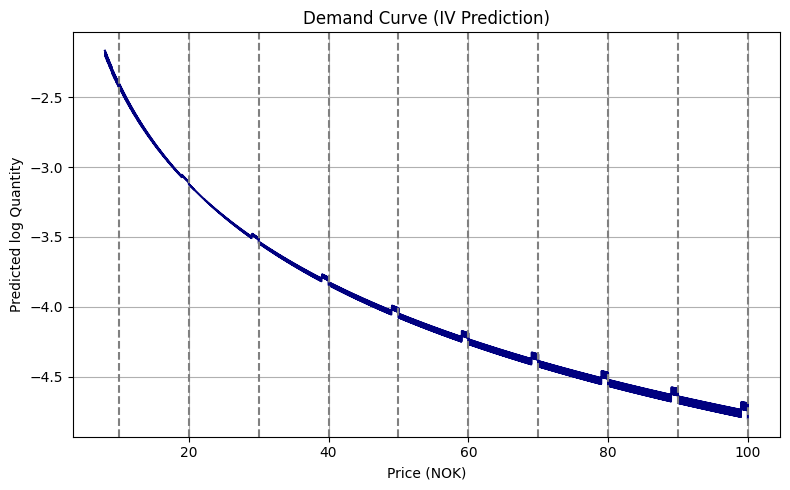
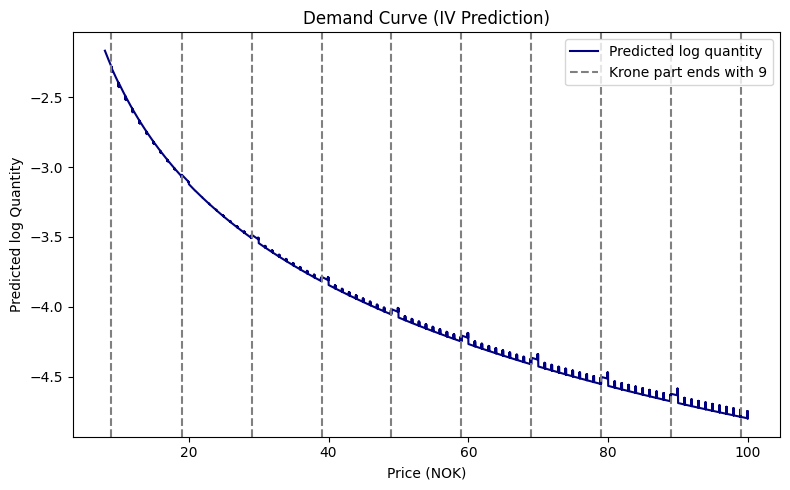
minor changes

diff --git a/code/run_elasticity_reg.py b/code/run_elasticity_reg.py
@@ -97,11 +97,11 @@ stores['id_int'] = stores['id_clean'].astype(float).astype('int64')
 stores_subset = stores.loc[:,['id_int','kommune_id']].drop_duplicates()
 df.store_id = df.store_id.astype('int64')   
 
-del stores, stores_subset
-gc.collect()
-
 df = df.merge(stores_subset[['id_int', 'kommune_id']], left_on='store_id', right_on='id_int', how='left')
 df.loc[df.kommune_id.isna(), 'kommune_id'] = '0301'  # Assign a default value for missing kommune_id
+
+del stores, stores_subset
+gc.collect()
 
 # for each product calculate an average price per week in other stores of the same chain in other municipalities
 df['price_iv'] = df.groupby(['sku_gtin', 'week', 'kjedeid'], as_index=False)['ppu'].transform(lambda x: x.mean())
@@ -176,111 +176,129 @@ model_iv5.summary()
 del model_iv5
 gc.collect()
 
-#%% Make a plot for predicted demand
-price_grid = np.linspace(df["ppu"].min(), df["ppu"].max(), 100)
+#%% Predict demand
+price_grid = np.linspace(0, 100, 10000)
 pred_df = pd.DataFrame({
     "price_nok": price_grid,
     "krone": price_grid.astype(int),
     "ore": ((price_grid - price_grid.astype(int)) * 100).round().astype(int)
 })
 pred_df["log_price_hat"] = np.log(pred_df["price_nok"])
-pred_df["krone_ends_with_nine"] = (pred_df["krone"] % 10 == 9).astype(int)
-pred_df["log_price_krone_hat"] = np.log(pred_df["krone"].replace(0, np.nan)).fillna(0)
-pred_df["ore_ends_with_nine"] = (pred_df["ore"] % 10 == 9).astype(int)
-pred_df["log_price_ore_hat"] = np.log(pred_df["ore"].replace(0, np.nan)).fillna(0)
+pred_df.loc[:, 'krone_ends_with_nine'] = pred_df["price_nok"].apply(krone_ends_with_nine)
+pred_df.loc[:, 'ore_ends_with_nine'] = pred_df["price_nok"].apply(ore_ends_with_nine)
+pred_df["log_price_ore_hat"] = pred_df.log_price_hat * pred_df.ore_ends_with_nine
+pred_df["log_price_krone_hat"] = pred_df.log_price_hat * pred_df.krone_ends_with_nine
 
-pred_df["log_q_hat"] = model_iv5.predict(pred_df)
+#pred_df["log_q_hat"] = model_iv5.predict(pred_df)
+pred_df["log_q_hat"] = pred_df['log_price_hat'] * model_iv5.coef()['log_price_hat'] + pred_df['krone_ends_with_nine'] * model_iv5.coef()['krone_ends_with_nine'] + pred_df['log_price_krone_hat'] * model_iv5.coef()['log_price_krone_hat'] + pred_df['ore_ends_with_nine'] * model_iv5.coef()['ore_ends_with_nine'] + pred_df['log_price_ore_hat'] * model_iv5.coef()['log_price_ore_hat']
 
-# Step 5: Plot
+# pred_df["log_q_hat"] = pred_df['log_price_hat'] * model_iv5.coef()['log_price_hat'] + pred_df['krone_ends_with_nine'] * model_iv5.coef()['krone_ends_with_nine'] + pred_df['ore_ends_with_nine'] * model_iv5.coef()['ore_ends_with_nine'] + pred_df['log_price_ore_hat'] * model_iv5.coef()['log_price_ore_hat']
+
+#%% Plot
+pred_df = pred_df[(pred_df["price_nok"] > 38) & (pred_df["price_nok"] < 42)]
+#pred_df = pred_df[(pred_df["price_nok"] > 8)]
+
 plt.figure(figsize=(8, 5))
 plt.plot(pred_df["price_nok"], pred_df["log_q_hat"], label="Predicted log quantity", color="navy")
+# Add vertical lines at prices ending in .9 (e.g., 8.9, 9.9, ..., 98.9)
+# price_ends_with_point9 = np.arange(19.0, 109, 10.0)
+# for price in price_ends_with_point9:
+#     plt.axvline(x=price, color='gray', linestyle='--')
+
+# Add a single label for the legend
+#plt.axvline(x=8.9, color='gray', linestyle='--', label='Krone part ends with 9')
 plt.xlabel("Price (NOK)")
 plt.ylabel("Predicted log Quantity")
 plt.title("Demand Curve (IV Prediction)")
-plt.grid(True)
+#plt.grid(True)
 plt.tight_layout()
+plt.legend(loc='upper right')
 plt.show()
 
-#%% MODELS for log quantity
-model_q = pf.feols('log_quantity ~ log_price + sw(krone_ends_with_nine, ore_ends_with_nine) | sku_gtin + store_id + week', data=df, vcov = {'CRV1':'store_id'})
-model_q.summary()
-del model_q
-gc.collect()
+#%% MODELS for different chains
+# Step 1: Run regression per chain
+results = []
 
-model_q = pf.feols('log_quantity ~ log_price + sw(krone_ends_with_nine, ore_ends_with_nine) | sku_gtin + store_id + week', data=df[df.format=='discounter'], vcov = {'CRV1':'store_id'})
-model_q.summary()
-del model_q
-gc.collect()
+for chain in df.kjedeid.unique():
+    df_chain = df[df.kjedeid == chain]
+    
+    model = pf.feols(
+        'log_quantity ~ log_price_hat + krone_ends_with_nine + log_price_krone_hat + ore_ends_with_nine + log_price_ore_hat | sku_gtin + store_id + week',
+        data=df_chain,
+        vcov={'CRV1': 'store_id'}
+    )
+    
+    coef_df = model.coef().reset_index()
+    coef_df['Std. Error'] = model.se().values
+    coef_df['kjedeid'] = chain
+    results.append(coef_df)
 
-model_q = pf.feols('log_quantity ~ log_price + sw(krone_ends_with_nine, ore_ends_with_nine) | sku_gtin + store_id + week', data=df[df.format=='convenience'], vcov = {'CRV1':'store_id'})
-model_q.summary()
-del model_q
-gc.collect()
+# Step 2: Combine all results
+all_results = pd.concat(results, ignore_index=True)
 
-model_q = pf.feols('log_quantity ~ log_price + sw(krone_ends_with_nine, ore_ends_with_nine) | sku_gtin + store_id + week', data=df[df.format=='supermarket'], vcov = {'CRV1':'store_id'})
-model_q.summary()
-del model_q
-gc.collect()
+# Step 3: Format with stars and SE on a new line
+def add_stars(estimate, se):
+    t = abs(estimate / se)
+    if t >= 2.576:
+        return '***'
+    elif t >= 1.96:
+        return '**'
+    elif t >= 1.645:
+        return '*'
+    else:
+        return ''
 
-#%% MODELS for log quantity and interaction
-model_q = pf.feols('log_quantity ~ log_price + log_price_krone + krone_ends_with_nine | sku_gtin + store_id + week', data=df, vcov = {'CRV1':'store_id'})
-model_q.summary()
-del model_q
-gc.collect()
+def format_entry(estimate, se):
+    stars = add_stars(estimate, se)
+    return f"{estimate:.3f}{stars}\n({se:.3f})"
 
-model_q = pf.feols('log_quantity ~ log_price + ore_ends_with_nine+ log_price_ore | sku_gtin + store_id + week', data=df, vcov = {'CRV1':'store_id'})
-model_q.summary()
-del model_q
-gc.collect()
+all_results['formatted'] = all_results.apply(
+    lambda row: format_entry(row['Estimate'], row['Std. Error']),
+    axis=1
+)
 
+# Step 4: Clean coefficient names
+all_results['Coefficient'] = all_results['Coefficient'].str.replace('_', ' ')
 
-model_q = pf.feols('log_quantity ~ log_price + krone_ends_with_nine + log_price_krone | sku_gtin + store_id + week', data=df[df.format=='discounter'], vcov = {'CRV1':'store_id'})
-model_q.summary()
-del model_q
-gc.collect()
+# Step 5: Define chain groups
 
-model_q = pf.feols('log_quantity ~ log_price + ore_ends_with_nine+ log_price_ore | sku_gtin + store_id + week', data=df[df.format=='discounter'], vcov = {'CRV1':'store_id'})
-model_q.summary()
-del model_q
-gc.collect()
+# Step 4: Define chain groups
+discounters = ['Extra', 'Prix', 'kiwi', 'Rema']
+supermarkets = ['Mega', 'spar', 'meny', 'Obs']
+convenience = ['joker','Marked','Matkroken','nærbutikken']
+chain_groups = {
+    'Discounters': discounters,
+    'Supermarkets': supermarkets,
+    'Convenience Stores': convenience
+}
 
-model_q = pf.feols('log_quantity ~ log_price + krone_ends_with_nine + log_price_krone | sku_gtin + store_id + week', data=df[df.format=='convenience'], vcov = {'CRV1':'store_id'})
-model_q.summary()
-del model_q
-gc.collect()
+# Step 6: Generate LaTeX tables by group
+for group_name, chains in chain_groups.items():
+    subset = all_results[all_results['kjedeid'].isin(chains)]
+    latex_df = subset.pivot(index='Coefficient', columns='kjedeid', values='formatted').reset_index()
+    latex_df = latex_df.rename(columns={'index': 'Coefficient'})
 
-model_q = pf.feols('log_quantity ~ log_price + ore_ends_with_nine+ log_price_ore | sku_gtin + store_id + week', data=df[df.format=='convenience'], vcov = {'CRV1':'store_id'})
-model_q.summary()
-del model_q
-gc.collect()
+    # Order columns by list
+    ordered_cols = ['Coefficient'] + [c for c in chains if c in latex_df.columns]
+    latex_df = latex_df[ordered_cols]
 
-model_q = pf.feols('log_quantity ~ log_price + krone_ends_with_nine + log_price_krone | sku_gtin + store_id + week', data=df[df.format=='supermarket'], vcov = {'CRV1':'store_id'})
-model_q.summary()
-del model_q
-gc.collect()
+    # Create LaTeX
+    latex_code = latex_df.to_latex(
+        index=False,
+        escape=False,
+        column_format="l" + "c" * (latex_df.shape[1] - 1),
+        caption=f"IV Estimates of Log Quantity on Price and 9-Endings – {group_name}",
+        label=f"tab:iv_{group_name.lower().replace(' ', '_')}"
+    )
 
-model_q = pf.feols('log_quantity ~ log_price + ore_ends_with_nine+ log_price_ore | sku_gtin + store_id + week', data=df[df.format=='supermarket'], vcov = {'CRV1':'store_id'})
-model_q.summary()
-del model_q
-gc.collect()
-
-#%% MODELS for log transactions
-model_trans = pf.feols('log_trans ~ log_price + sw(krone_ends_with_nine, ore_ends_with_nine) | sku_gtin + store_id + week', data=df, vcov = {'CRV1':'store_id'})
-model_trans.summary()
-del model_trans
-gc.collect()
-
-model_trans = pf.feols('log_trans ~ log_price + sw(krone_ends_with_nine, ore_ends_with_nine) | sku_gtin + store_id + week', data=df[df.format=='discounter'], vcov = {'CRV1':'store_id'})
-model_trans.summary()
-del model_trans
-gc.collect()
-
-model_trans = pf.feols('log_trans ~ log_price + sw(krone_ends_with_nine, ore_ends_with_nine) | sku_gtin + store_id + week', data=df[df.format=='convenience'], vcov = {'CRV1':'store_id'})
-model_trans.summary()
-del model_trans
-gc.collect()
-
-model_trans = pf.feols('log_trans ~ log_price + sw(krone_ends_with_nine, ore_ends_with_nine) | sku_gtin + store_id + week', data=df[df.format=='supermarket'], vcov = {'CRV1':'store_id'})
-model_trans.summary()
-del model_trans
-gc.collect()
+    # Print full table
+    print(f"\\begin{{table}}")
+    print(f"\\caption{{IV Estimates of Log Quantity on Price and 9-Endings – {group_name}}}")
+    print(f"\\label{{tab:iv_{group_name.lower().replace(' ', '_')}}}")
+    print(latex_code.replace("\\toprule", "\\toprule")
+                    .replace("\\midrule", "\\midrule")
+                    .replace("\\bottomrule", "\\bottomrule")
+                    .replace("\\begin{tabular}", "\\begin{tabular}")
+                    .replace("\\end{tabular}", "\\end{tabular}"))
+    print("\\end{table}\n")
+# %%

diff --git a/code/make_data_for_student.py b/code/make_data_for_student.py
@@ -1,0 +1,130 @@
+"""Make data for studying the intensity of left-digit pricing and competition
+"""
+
+#%%
+import duckdb
+import pandas as pd
+import re
+import psutil
+import numpy as np
+import pyfixest as pf
+import gc
+import matplotlib.pyplot as plt
+from pathlib import Path
+import geopandas as gpd
+import statsmodels.formula.api as smf
+
+pd.options.display.float_format = '{:.2f}'.format  
+pd.set_option('display.max_columns', None)  # Show all columns in DataFrame output
+
+current_dir = Path(__file__)
+gitfolder = current_dir.parent.parent
+datafolder = current_dir.parent.parent.parent / 'data'
+output = gitfolder / 'output' 
+
+#%% Load data
+# Connect to DuckDB
+con = duckdb.connect()
+
+# Define file paths
+base_path = datafolder / "Aggregate Data"
+months = ["june", "july", "aug", "sep", "oct", "nov"]
+
+# Read the first month's data to determine column structure
+sample_query = f"SELECT * FROM read_parquet('{base_path / (months[0] + '_data_week_store_sku.parquet')}') LIMIT 1"
+sample_data = con.execute(sample_query).df()
+
+# Detect column types
+column_types = sample_data.dtypes.map(str).replace({
+    'int64': 'BIGINT',
+    'float64': 'DOUBLE',
+    'object': 'VARCHAR'
+}).to_dict()
+
+
+# Create merged_data table with the same columns + "ppu"
+columns = list(sample_data.columns) + ["ppu"]
+column_types["ppu"] = "DOUBLE"
+
+# Create table dynamically
+col_str = ", ".join(f"{col} {column_types[col]}" for col in columns)
+create_query = f"CREATE TABLE merged_data ({col_str})"
+con.execute(create_query)
+
+# Process each month separately and append to the table
+for month in months[:1]:
+    # Read data directly in DuckDB
+    print(f"Processing {month}...")
+    data_query = f"SELECT * FROM read_parquet('{base_path / (month + '_data_week_store_sku.parquet')}')"
+    mode_query = f"SELECT week, sku_gtin, store_id, ppu FROM read_parquet('{base_path / (month + '_modes_week_store_sku.parquet')}')"
+
+    # Merge inside DuckDB, ensuring column match
+    merge_query = f"""
+        INSERT INTO merged_data ({', '.join(columns)})
+        SELECT d.*, m.ppu 
+        FROM ({data_query}) AS d
+        LEFT JOIN ({mode_query}) AS m 
+        USING (week, sku_gtin, store_id)
+    """
+    
+    con.execute(merge_query)
+    print(f"Processed {month}")
+
+df_full = con.execute("SELECT * FROM merged_data").df()
+# %%
+df_subset = df_full[(df_full['price'] > 0) & (df_full['price'] < 1000) & (df_full['quantity'] > 0) &  (df_full['quantity'] < 201)]
+
+
+df_subset.store_id = df_subset.store_id.astype('category')
+df_subset.kjedeid = df_subset.kjedeid.astype('category')
+df_subset.sku_gtin = df_subset.sku_gtin.astype('category')
+df_subset.week = df_subset.week.astype('category')
+
+chain_format_mapping = {'Extra': 'discounter', 'Prix': 'discounter', 'kiwi': 'discounter', 'Rema': 'discounter', 'meny': 'supermarket', 'spar': 'supermarket', 'Mega': 'supermarket', 'Obs': 'hypermarket', 'joker': 'convenience', 'Marked': 'convenience', 'Matkroken': 'convenience', 'nærbutikken': 'convenience'}
+
+df_subset['format'] = df_subset.kjedeid.map(chain_format_mapping)
+
+#%% Define left-digit pricing
+def krone_ends_with_nine(price):
+    """
+    Checks if the integer part (kroner) of the price ends with 9, 
+    but not if the integer part is >= 90.
+    """
+    kroner_part = int(price)
+    return kroner_part % 10 == 9 and kroner_part < 90
+
+def ore_ends_with_nine(price):
+    """
+    Checks if the decimal part (øre) is exactly 0.90, 0.95, or 0.99.
+    Also accepts 0.9 as 0.90.
+    """
+    ore = round(price * 100) % 100  # Extract øre as an integer (e.g. 12.95 -> 95)
+    return ore in [90, 95, 99]
+
+#%%
+df_subset.loc[:, 'krone_ends_with_nine'] = df_subset['ppu'].apply(krone_ends_with_nine)
+df_subset.loc[:, 'ore_ends_with_nine'] = df_subset['ppu'].apply(ore_ends_with_nine)
+df_subset.loc[:, 'ends_with_nine'] = df_subset['krone_ends_with_nine'] | df_subset['ore_ends_with_nine']
+df_subset.store_id = df_subset.store_id.astype('int64')   
+df_store = df_subset.groupby('store_id', as_index=False).agg({
+    'ends_with_nine': 'mean',
+    'krone_ends_with_nine': 'mean',
+    'ore_ends_with_nine': 'mean',
+    'trans': 'sum',
+    'quantity': 'sum'
+})
+#df_store.to_parquet("M:/df_store.parquet", index=False)
+
+#%%
+#%% # Load geodata, keys: store id
+stores = gpd.read_file(r'M:\grocery_server\data\geodata\NARING_Dagligvare.gdb')
+stores['id_clean'] = stores['id'].apply(lambda x: re.sub(r'[^0-9]', '', str(x)))
+stores['id_int'] = stores['id_clean'].astype(float).astype('int64')
+geodata_df = stores.loc[:,['id_int', 'kjedeid','paraplykjede','oms','geometry']].drop_duplicates()
+
+# Merge store-level data with geodata
+df_store = df_store.merge(geodata_df, left_on='store_id', right_on='id_int', how='left')
+
+# Check how many stores did not match in Geodata
+print('Number of stores without Geodata:', df_store.kjedeid.isna().sum())
+print('Number of stores with Geodata:', df_store.kjedeid.notna().sum())
